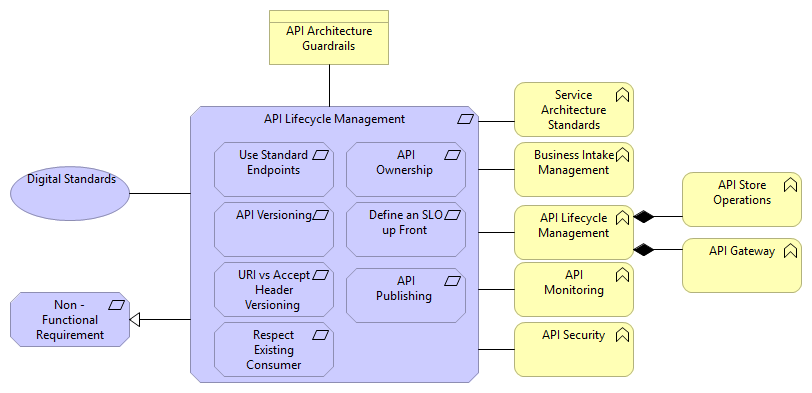
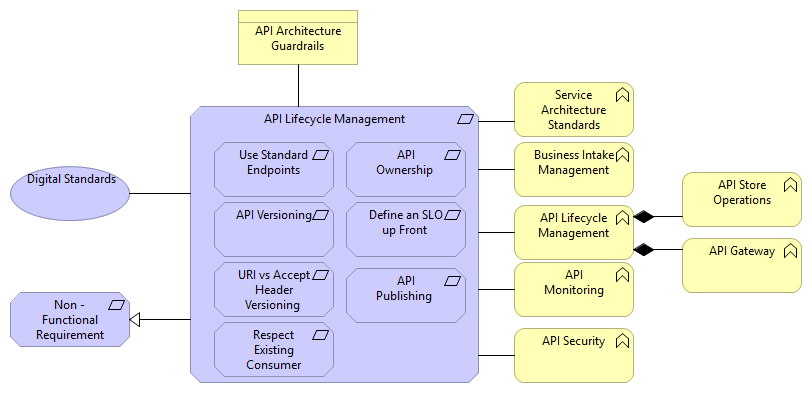
SLO Req update

diff --git a/reports/CommonSandbox Report/e8ecca68-8692-400d-9425-b00d60784a26/views/68f84804-90e4-4231-b574-073085720edc.html b/reports/CommonSandbox Report/e8ecca68-8692-400d-9425-b00d60784a26/views/68f84804-90e4-4231-b574-073085720edc.html
@@ -37,11 +37,11 @@
 				  		<area shape="rect" coords="514,262,634,317" href="../elements/04d56aa3-18de-492c-98e1-2210b579a014.html"  target="element">
 				  		<area shape="rect" coords="682,238,802,293" href="../elements/e3cb1cd0-68de-4334-bd8a-72fad5192d3a.html"  target="element">
 				  		<area shape="rect" coords="682,172,802,227" href="../elements/8dbe7640-bc53-40be-b285-6e416640261f.html"  target="element">
-				  		<area shape="rect" coords="514,322,634,377" href="../elements/1735b795-333f-4652-baeb-3d216f5b0dd3.html"  target="element">
+				  		<area shape="rect" coords="514,328,634,383" href="../elements/1735b795-333f-4652-baeb-3d216f5b0dd3.html"  target="element">
 				  		<area shape="rect" coords="514,205,634,260" href="../elements/1ffed886-217c-444f-9a2d-9b24f25cc898.html"  target="element">
 				  		<area shape="rect" coords="514,82,634,137" href="../elements/f0fcaa17-75d5-41ce-90e9-71ad8bfb59b5.html"  target="element">
 				  		<area shape="rect" coords="514,142,634,197" href="../elements/c0d19d7d-90bf-4fbb-b8d4-4c0a3e902ef8.html"  target="element">
-				  		<area shape="rect" coords="269,10,389,65" href="../elements/b473190d-b5e1-4655-8c3f-bf87099ce8be.html"  target="element">
+				  		<area shape="rect" coords="238,10,358,65" href="../elements/b473190d-b5e1-4655-8c3f-bf87099ce8be.html"  target="element">
 				  		<area shape="rect" coords="10,292,130,347" href="../elements/f72a2a44-a6c2-4779-9cc0-75b9f423f653.html"  target="element">
 				  				<area shape="rect" coords="346,202,466,257" href="../elements/e28749a0-9e9b-4b88-b94d-62d05f7b22e7.html"  target="element">
 				  				<area shape="rect" coords="214,202,334,257" href="../elements/9e5b47d4-a690-4a31-810d-819a1bebd28d.html"  target="element">
